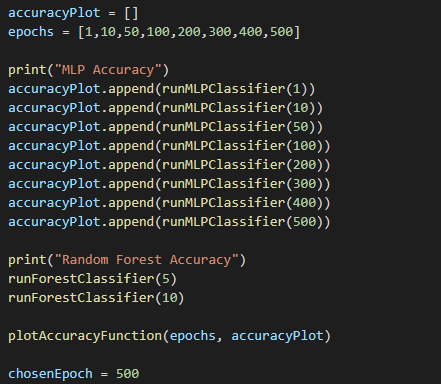
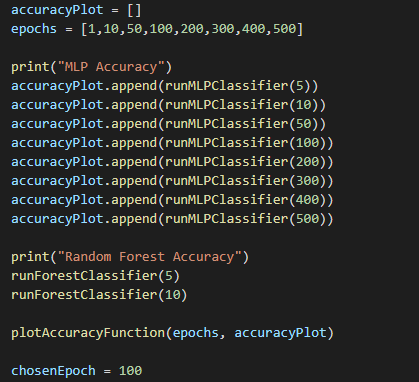
Update 3.2

diff --git a/machineLearning.py b/machineLearning.py
@@ -381,7 +381,7 @@ accuracyPlot = []
 epochs = [1,10,50,100,200,300,400,500]
 
 print("MLP Accuracy")
-accuracyPlot.append(runMLPClassifier(1))
+accuracyPlot.append(runMLPClassifier(5))
 accuracyPlot.append(runMLPClassifier(10))
 accuracyPlot.append(runMLPClassifier(50))
 accuracyPlot.append(runMLPClassifier(100))
